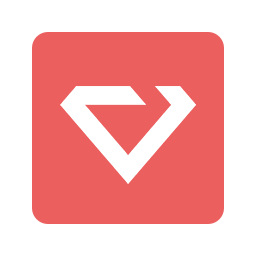
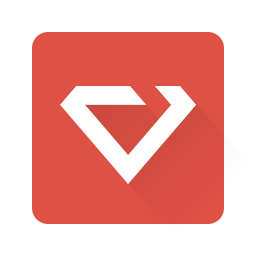
bump to 1.3

diff --git a/app/src/main.js b/app/src/main.js
@@ -1,10 +1,16 @@
 /**
- * @file api js
+ * @file FECS Editor main
  * @author cgzero(cgzero@cgzero.com)
- * @date 2015-10-15
+ * @date 2015-12-17
  */
 (function () {
 
+    /**
+     * FECS 主域
+     *
+     * @const
+     * @type {string}
+     */
     var FECS_HOST = 'http://fecs.baidu.com';
 
     /**
@@ -322,44 +328,23 @@
 
         // 窗口尺寸变化时的处理函数
         var resizeEditor = function () {
-            if ($('.fecs-editor-wrap').hasClass('full')) {
-                var restOfHeight = 150;
+            var restOfHeight = 150;
 
-                if ($(window).width() < 700) {
-                    restOfHeight = 140;
-                }
-
-                $('.fecs-editor').height($(window).height() - restOfHeight);
-
+            if ($(window).width() < 700) {
+                restOfHeight = 140;
             }
-            else {
-                $('.fecs-editor').height(500);
-            }
+
+            $('.fecs-editor').height($(window).height() - restOfHeight);
 
             $.each(editorMap, function (key, editor) {
                 editor.resize();
             });
         };
 
+        // 初始化强制触发
+        resizeEditor();
         // 窗口尺寸改变时绑定事件
         $(window).resize(resizeEditor);
-
-        // 最大最小化按钮
-        $('.full-screen-btn').on('click', function () {
-            var self = $(this);
-            if (!self.hasClass('full')) {
-                $('.fecs-editor-wrap').addClass('full');
-                self.addClass('full');
-                resizeEditor();
-            }
-            else {
-                $('.fecs-editor-wrap').removeClass('full');
-                self.removeClass('full');
-                // 定位到编辑器头部的位置
-                $(window).scrollTop($('.fecs-nav').offset().top);
-                resizeEditor();
-            }
-        });
 
         // 点击展开、隐藏菜单
         $('.menu-btn').on('click', function (evt) {

diff --git a/app/src/css/main.css b/app/src/css/main.css
@@ -50,7 +50,7 @@ a:hover {
     background-color: #272822;
     color: #272822;
     font-size: 14px !important;
-    height: 500px;
+    height: 428px;
     margin: 0 auto;
     position: relative;
     width: 1000px;
@@ -77,6 +77,10 @@ a:hover {
     color: #787878;
     max-width: 800px;
     padding: 5px 15px;
+}
+
+.ace_layer {
+    min-width: 50px;
 }
 
 .fecs-editor .ace_gutter-cell.ace_error {
@@ -355,5 +359,21 @@ a:hover {
 .menu-btn:hover i,
 .menu-btn.cur i {
     opacity: 1;
+}
+
+@media (min--moz-device-pixel-ratio: 1.3),(-o-min-device-pixel-ratio: 2.6/2),(-webkit-min-device-pixel-ratio: 1.3),(min-device-pixel-ratio: 1.3),(min-resolution: 1.3dppx) {
+    .fecs-editor .ace_gutter-cell.ace_error {
+        background-image: url("../img/icon_editor@2x.png");
+        background-size: 200px 100px;
+    }
+}
+.fecs-editor .ace_gutter-cell.ace_warning {
+    background: url("../img/icon_editor.png") -97px -73px no-repeat;
+}
+@media (min--moz-device-pixel-ratio: 1.3),(-o-min-device-pixel-ratio: 2.6/2),(-webkit-min-device-pixel-ratio: 1.3),(min-device-pixel-ratio: 1.3),(min-resolution: 1.3dppx) {
+    .fecs-editor .ace_gutter-cell.ace_warning {
+        background-image: url("../img/icon_editor@2x.png");
+        background-size: 200px 100px;
+    }
 }
 /* biz end */

diff --git a/README.md b/README.md
@@ -5,5 +5,7 @@
 
 更新历史：
 
-- 1.1 图标优化 [2013-12-16]
+- 1.3 图标增加阴影；修复了一些 bug [2013-12-17]
+- 1.2 代码提示 icon 优化 [2013-12-16]
+- 1.1 图标支持视网膜屏 [2013-12-16]
 - 1.0 新版本发布 [2013-12-16]
